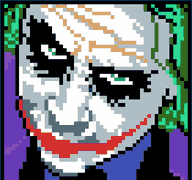
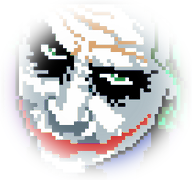
perf(theme): el fondo de la cola, más rápido y sin cortes
Pintar el emblema cortaba cada línea celda a celda con Strip.divide, y
la cola pasó de 11 a 61 ms por repintado. Ahora se recorre la línea una
vez juntando celdas del mismo estilo, con los estilos precalculados y
las líneas pintadas en caché: 17 ms en caliente, 26 en frío.

Textual no rellena las líneas al ancho del widget, y en una línea corta
(la que sigue a la última fila) el emblema se perdía. Cada línea se
rellena antes de pintar, con un test. El Joker lleva borde difuminado.

Claude-Session: https://claude.ai/code/session_013EkkJjPqiwgaPNo97Qa2Fp

diff --git a/tidalamp/screens.py b/tidalamp/screens.py
@@ -47,6 +47,11 @@ def _hex(pixel: tuple[int, int, int]) -> str:
     return "#{:02x}{:02x}{:02x}".format(*pixel)
 
 
+# One emblem cell ready to paint: the glyph for a blank cell and the styles
+# that go with it, both built once per size and palette, not per repaint.
+_Paint = tuple[str, Style, Style]
+
+
 class RowList(Widget):
     """A scrolling list of rows with a cursor. Used by both panes."""
 
@@ -62,7 +67,10 @@ class RowList(Widget):
         # browser's lists do not.
         self.backdrop: Path | None = None
         self._cells_key: tuple | None = None
-        self._cells: dict[int, list[artwork.EmblemCell]] = {}
+        self._cells: dict[int, dict[int, _Paint]] = {}
+        # Painted lines, by what the row drew there. A repaint that changes
+        # nothing (the cursor moving two rows away, a tick) reuses them.
+        self._painted: dict[tuple, Strip] = {}
 
     def set_backdrop(self, path: Path | None) -> None:
         if path != self.backdrop:
@@ -185,14 +193,15 @@ class RowList(Widget):
             line += f" {detail}"
         return set_cell_size(line, width)
 
-    def _backdrop(self) -> dict[int, list[artwork.EmblemCell]]:
+    def _backdrop(self) -> dict[int, dict[int, _Paint]]:
         """The emblem's cells for this size and palette, worked out once."""
         palette = palette_for(self)
         key = (self.backdrop, self.size, id(palette))
         if key != self._cells_key:
             self._cells_key = key
+            self._painted.clear()
             ground = palette["display_background"].lstrip("#")
-            self._cells = (
+            lines = (
                 artwork.emblem_cells(
                     self.backdrop,
                     self.size.width,
@@ -202,6 +211,17 @@ class RowList(Widget):
                 if self.backdrop is not None
                 else {}
             )
+            self._cells = {
+                y: {
+                    x: (
+                        glyph,
+                        Style(color=_hex(fg), bgcolor=_hex(bg)),
+                        Style(bgcolor=_hex(mean)),
+                    )
+                    for x, glyph, fg, bg, mean in cells
+                }
+                for y, cells in lines.items()
+            }
         return self._cells
 
     def _cursor_line(self) -> int | None:
@@ -223,37 +243,66 @@ class RowList(Widget):
         strip = super().render_line(y)
         if self.backdrop is None or y == self._cursor_line():
             return strip
-        cells = {cell[0]: cell for cell in self._backdrop().get(y, ())}
+        cells = self._backdrop().get(y)
         if not cells:
             return strip
-        length = strip.cell_length
-        inner = sorted({edge for x in cells for edge in (x, x + 1) if 0 < edge < length})
-        # The end of the line is a cut too: `divide` returns what lies before
-        # each cut and drops the rest. Without it the tail of every painted
-        # line went missing, and the terminal kept whatever it had there,
-        # which was the cursor's highlight from wherever it had been.
-        pieces = strip.divide([*inner, length])
-        segments = []
-        for edge, piece in zip([0, *inner], pieces, strict=True):
-            cell = cells.get(edge)
-            if cell is None or piece.cell_length != 1:
-                segments.extend(piece)
+        # Textual does not pad a line to the widget: the one after the last
+        # row is empty, and a short line used to swallow every emblem cell
+        # past its end. Painted to the full width, whatever it was handed.
+        width = self.content_region.width or max(0, self.size.width - 2)
+        if strip.cell_length < width:
+            strip = strip.extend_cell_length(width)
+        key = (y, strip.text, tuple(segment.style for segment in strip))
+        painted = self._painted.get(key)
+        if painted is None:
+            painted = self._paint(strip, cells)
+            if len(self._painted) > 1024:
+                self._painted.clear()
+            self._painted[key] = painted
+        return painted
+
+    @staticmethod
+    def _paint(strip: Strip, cells: dict[int, _Paint]) -> Strip:
+        """One pass over the line, cell by cell, merging runs of one style.
+
+        It used to cut the line at every emblem cell with `Strip.divide`,
+        which cost six times the render of the list itself; a walk over the
+        characters does the same work for a fraction of it.
+        """
+        out: list[Segment] = []
+        text: list[str] = []
+        current: Style | None = None
+        x = 0
+
+        def emit(char: str, style: Style | None) -> None:
+            nonlocal current
+            if style != current and text:
+                out.append(Segment("".join(text), current))
+                text.clear()
+            current = style
+            text.append(char)
+
+        for segment in strip:
+            if segment.control:
+                if text:
+                    out.append(Segment("".join(text), current))
+                    text.clear()
+                out.append(segment)
                 continue
-            _x, glyph, fg, bg, mean = cell
-            for segment in piece:
-                if segment.control:
-                    segments.append(segment)
-                    continue
-                style = segment.style or Style()
-                if segment.text == " ":
-                    segments.append(
-                        Segment(glyph, style + Style(color=_hex(fg), bgcolor=_hex(bg)))
-                    )
+            base = segment.style or Style()
+            for char in segment.text:
+                size = cell_len(char)
+                cell = cells.get(x) if size == 1 else None
+                if cell is None:
+                    emit(char, segment.style)
+                elif char == " ":
+                    emit(cell[0], base + cell[1])
                 else:
-                    segments.append(
-                        Segment(segment.text, style + Style(bgcolor=_hex(mean)))
-                    )
-        return Strip(segments, length)
+                    emit(char, base + cell[2])
+                x += size
+        if text:
+            out.append(Segment("".join(text), current))
+        return Strip(out, strip.cell_length)
 
     def render(self) -> Text:
         palette = palette_for(self)

diff --git a/tests/test_app.py b/tests/test_app.py
@@ -4875,3 +4875,38 @@ def test_split_shows_the_looks_line_while_there_are_no_lyrics(monkeypatch, tmp_p
             assert "anillo" in marquee
 
     asyncio.run(scenario())
+
+
+def test_the_emblem_is_painted_on_a_short_line_too(monkeypatch, tmp_path):
+    """Textual does not pad a line to the widget: the one after the last row
+    comes back empty, and the emblem's cells past a line's end were dropped.
+    Where the queue ends in the middle of the picture, the picture goes on."""
+    from tidalamp.artwork import QUADRANTS
+
+    isolate_runtime(monkeypatch)
+    isolate_config(monkeypatch, tmp_path)
+    app_module.config.set_option("arrangement", "split")
+    use_theme(monkeypatch, "cuaderno")
+
+    async def scenario() -> None:
+        application = TidalAmp(object(), FakeMpv())
+        async with application.run_test(size=(200, 60)) as pilot:
+            await pilot.pause()
+            playlist = application.query_one("#playlist", RowList)
+            lines = sorted(playlist._backdrop())
+            middle = lines[len(lines) // 2]
+            application.queue.replace(
+                [
+                    Entry(id=n, title=f"t{n}", artist="a", duration=9)
+                    for n in range(middle)
+                ],
+                start=0,
+            )
+            application._sync_queue()
+            await pilot.pause()
+            for y in (middle, middle + 1):
+                drawn = playlist.render_line(y)
+                assert drawn.cell_length == playlist.content_region.width, y
+                assert any(c in QUADRANTS[1:] for c in drawn.text), y
+
+    asyncio.run(scenario())

diff --git a/plan.md b/plan.md
@@ -758,9 +758,21 @@ separación: es lo que permitiría añadir otro frontend (ver §6).
       decir, **el doble de alto que de ancho**, igual que la celda. Muestrear la
       imagen como si fuera cuadrado la aplastaba de lado (la luna salía huevo). Se
       calculan columnas y filas con esa proporción; un test lo fija con la luna.
+- [x] Rendimiento: la primera versión cortaba cada línea en cada celda del emblema con
+      `Strip.divide`, y la cola pasó de 11 a 61 ms por repintado (274x100, 90 filas);
+      se notaba al mover el cursor. Ahora `RowList._paint` recorre la línea una vez
+      juntando celdas del mismo estilo, los estilos de cada celda se construyen una vez
+      por tamaño y paleta, y las líneas pintadas se cachean por contenido: 17 ms con
+      la caché caliente y 26 en frío.
+- [x] Textual no rellena las líneas al ancho del widget (`Visual.to_strips` con
+      `pad=False`): la que sigue a la última fila llega vacía, y el emblema se perdía
+      en ella. Cada línea se rellena al ancho del contenido antes de pintar; un test
+      pone el final de la cola en mitad del dibujo. El mantenedor vio además el
+      emblema cortado en todas las líneas a partir de cierta fila, con 66 y con 91
+      filas; en headless y en un pty con pyte no se reproduce. **Comprobarlo a mano.**
 - [x] La transparencia parcial se respeta: cada píxel se mezcla con el fondo según su
       alfa antes del velo, así que una imagen con el borde difuminado (el Ojo, el
-      cuervo) se funde con la cola en vez de acabar en un rectángulo. Ryuk va
+      cuervo) se funde con la cola en vez de acabar en un rectángulo; el Joker también. Ryuk va
       recortado a su luna, con las puntas de las alas que salen de ella.
 - [x] Historia, para no repetirla: primero fue un dibujo de 18x18 en letras de papel
       en el hueco de la carátula (se veía solo sin pista y los personajes no daban
